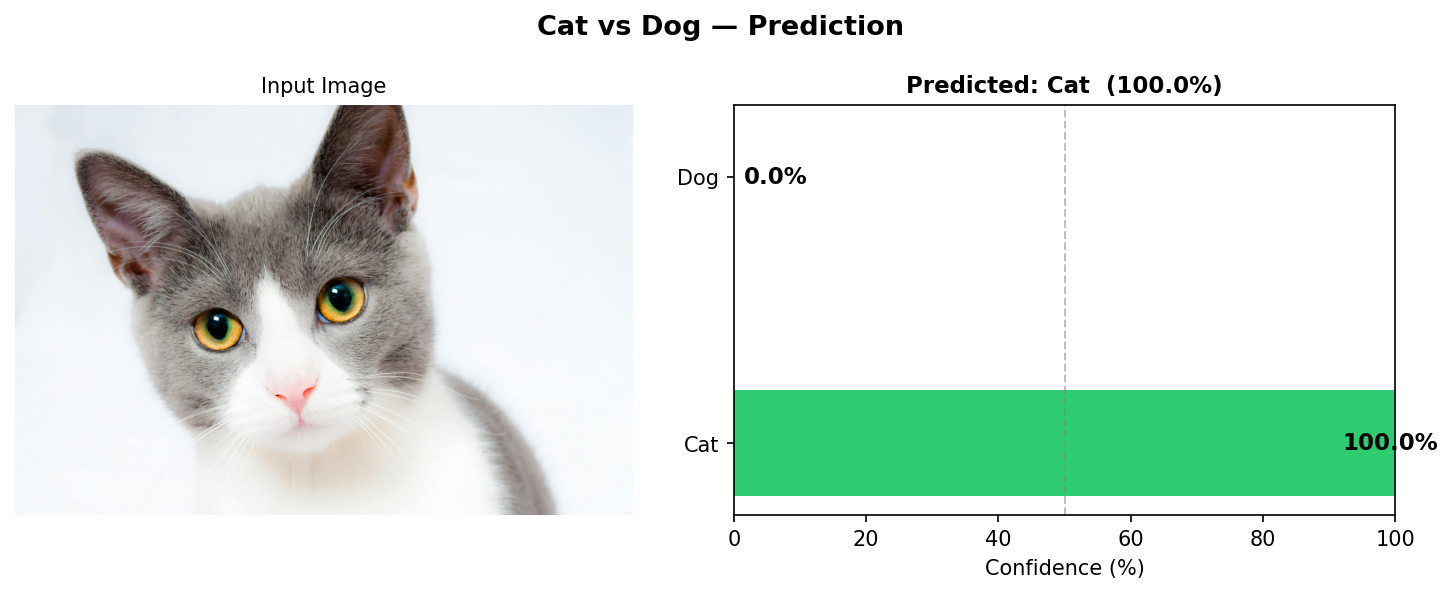
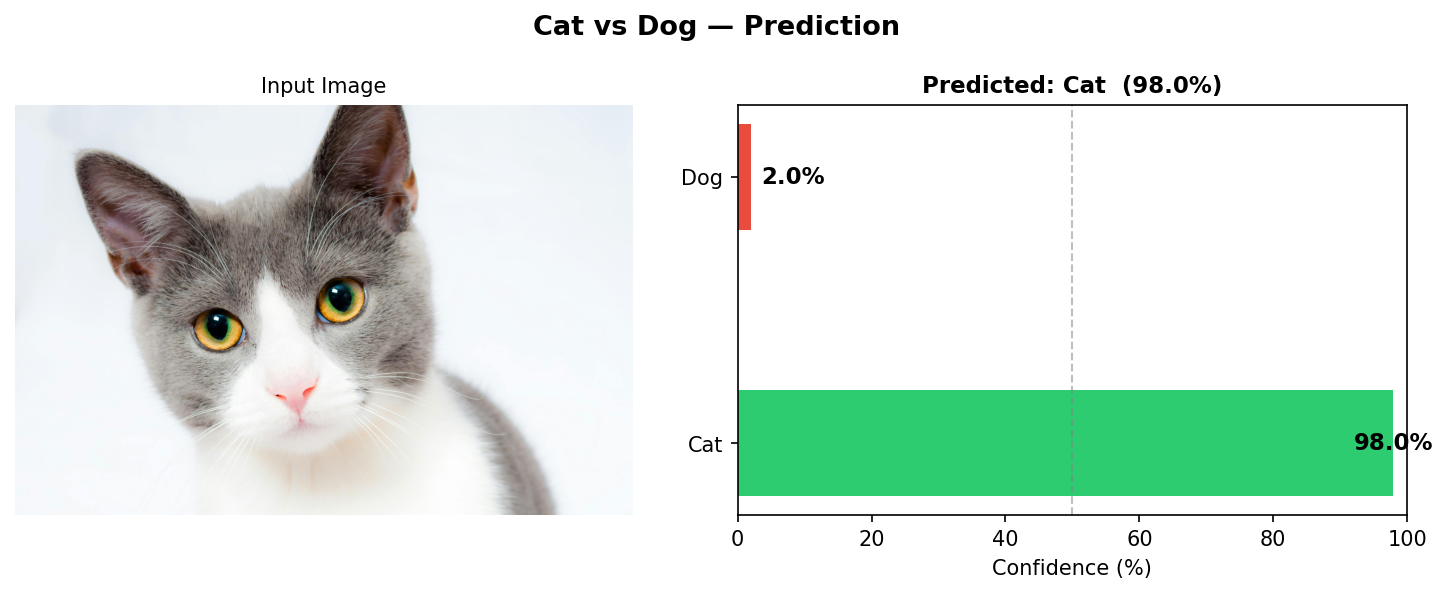
Run predictions on data folder images; fix plt.show() blocking
- output/prediction_cat-pet-animal-domestic-104827.png: Cat 98.0%
- output/prediction_hero-image1.png: Cat 83.2%
- predict.py: replace plt.show() with plt.close() to avoid blocking
  when running batch predictions from a script

diff --git a/predict.py b/predict.py
@@ -156,8 +156,8 @@ def show_confidence_chart(image_path: str, result: dict, save_dir: str = "./outp
     stem     = Path(image_path).stem
     out_path = Path(save_dir) / f"prediction_{stem}.png"
     plt.savefig(out_path, dpi=150, bbox_inches="tight")
+    plt.close()
     print(f"[Predict] Chart saved -> {out_path}")
-    plt.show()
 
 
 # ──────────────────────────────────────────────────────────────────────────────
